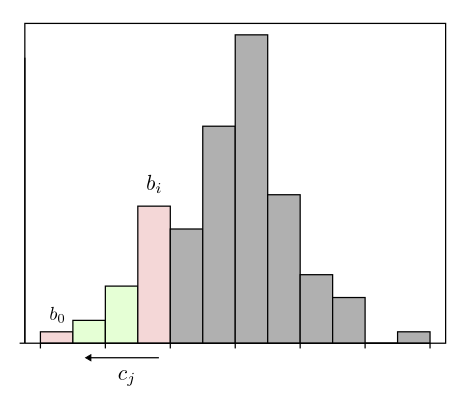
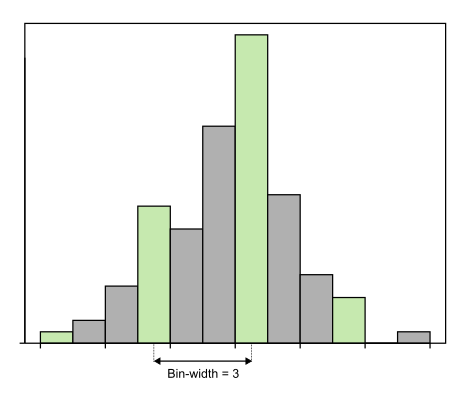
update: refine words and figure

diff --git a/docs/bandwidth_est.md b/docs/bandwidth_est.md
@@ -21,7 +21,7 @@ Here `x` is an arbitrary numeric vector.
 
 ### Bin-width density
 
-Firstly, data is divided into $N$ bins (default is 1000), and counted density for each bin ($b_i, 0 \le i \le N-1$).  
+Firstly, data is divided into $N$ bins (default is 1000), and counted density for each bin ($b_k, 0 \le k \le N-1$), which is prepared for identifying total denstity for each bin-width distance.  
 
 ```{math}
 :label: ci-sum
